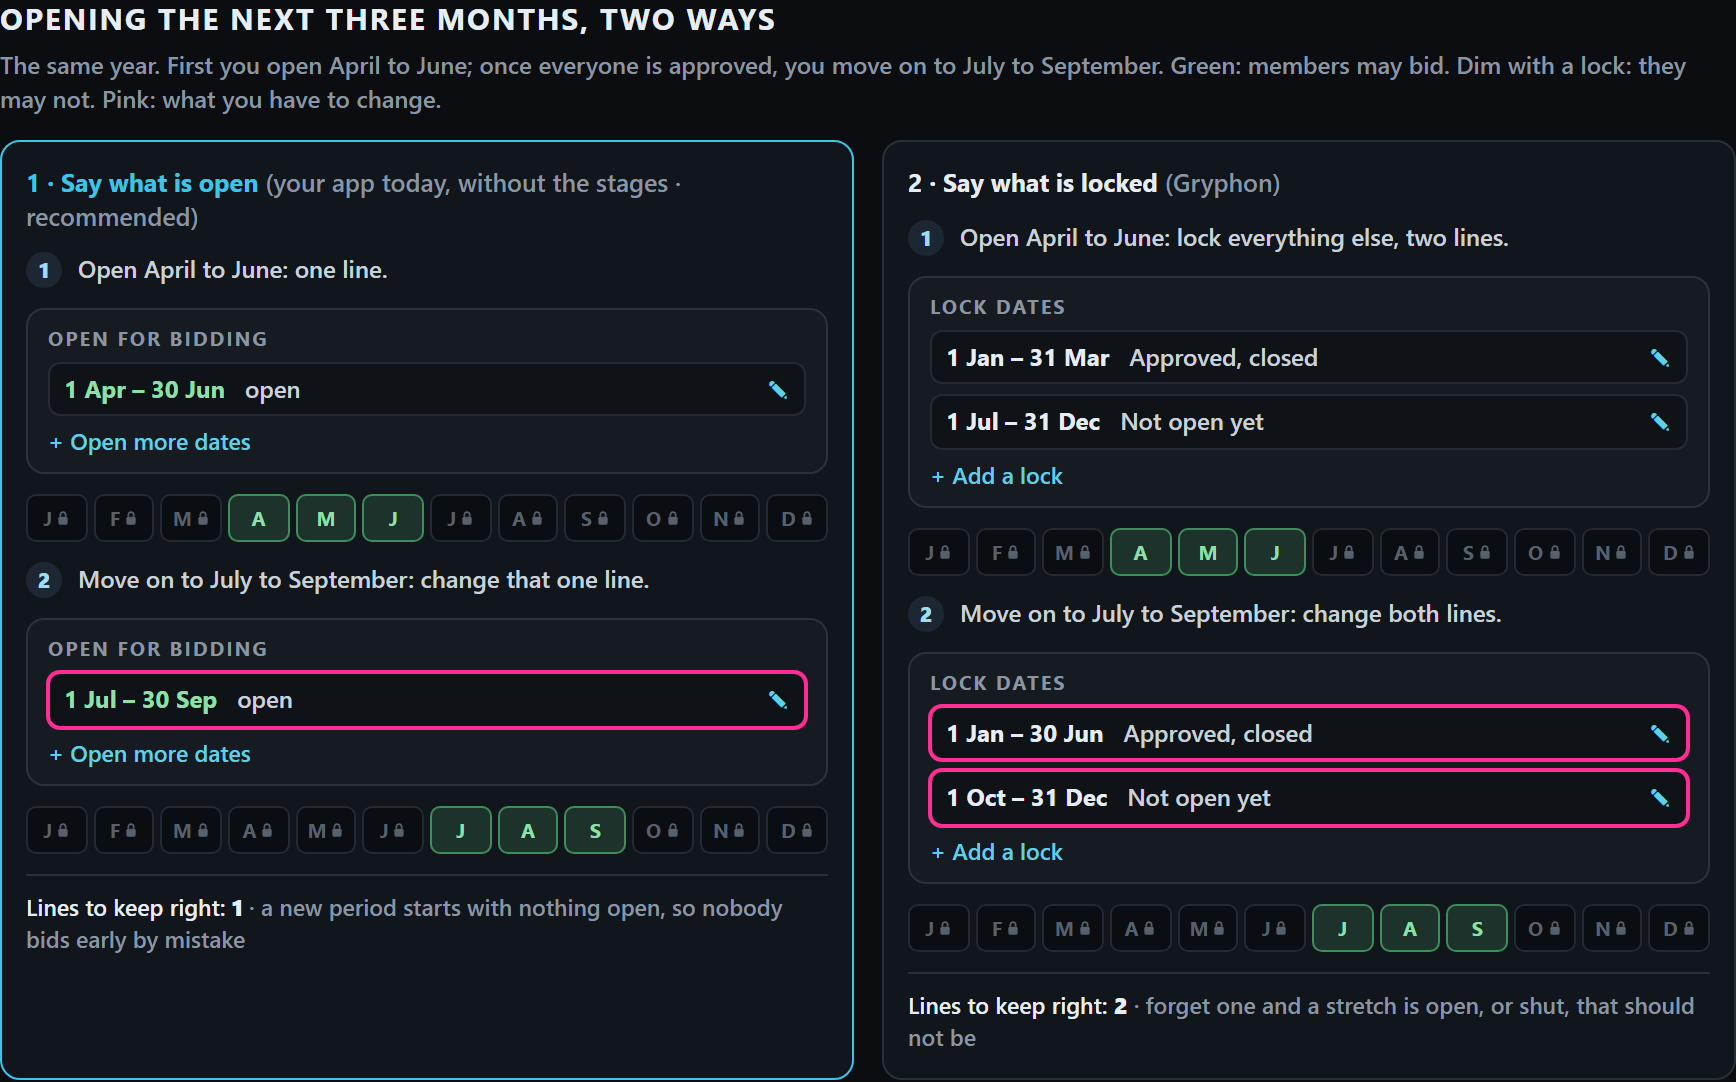
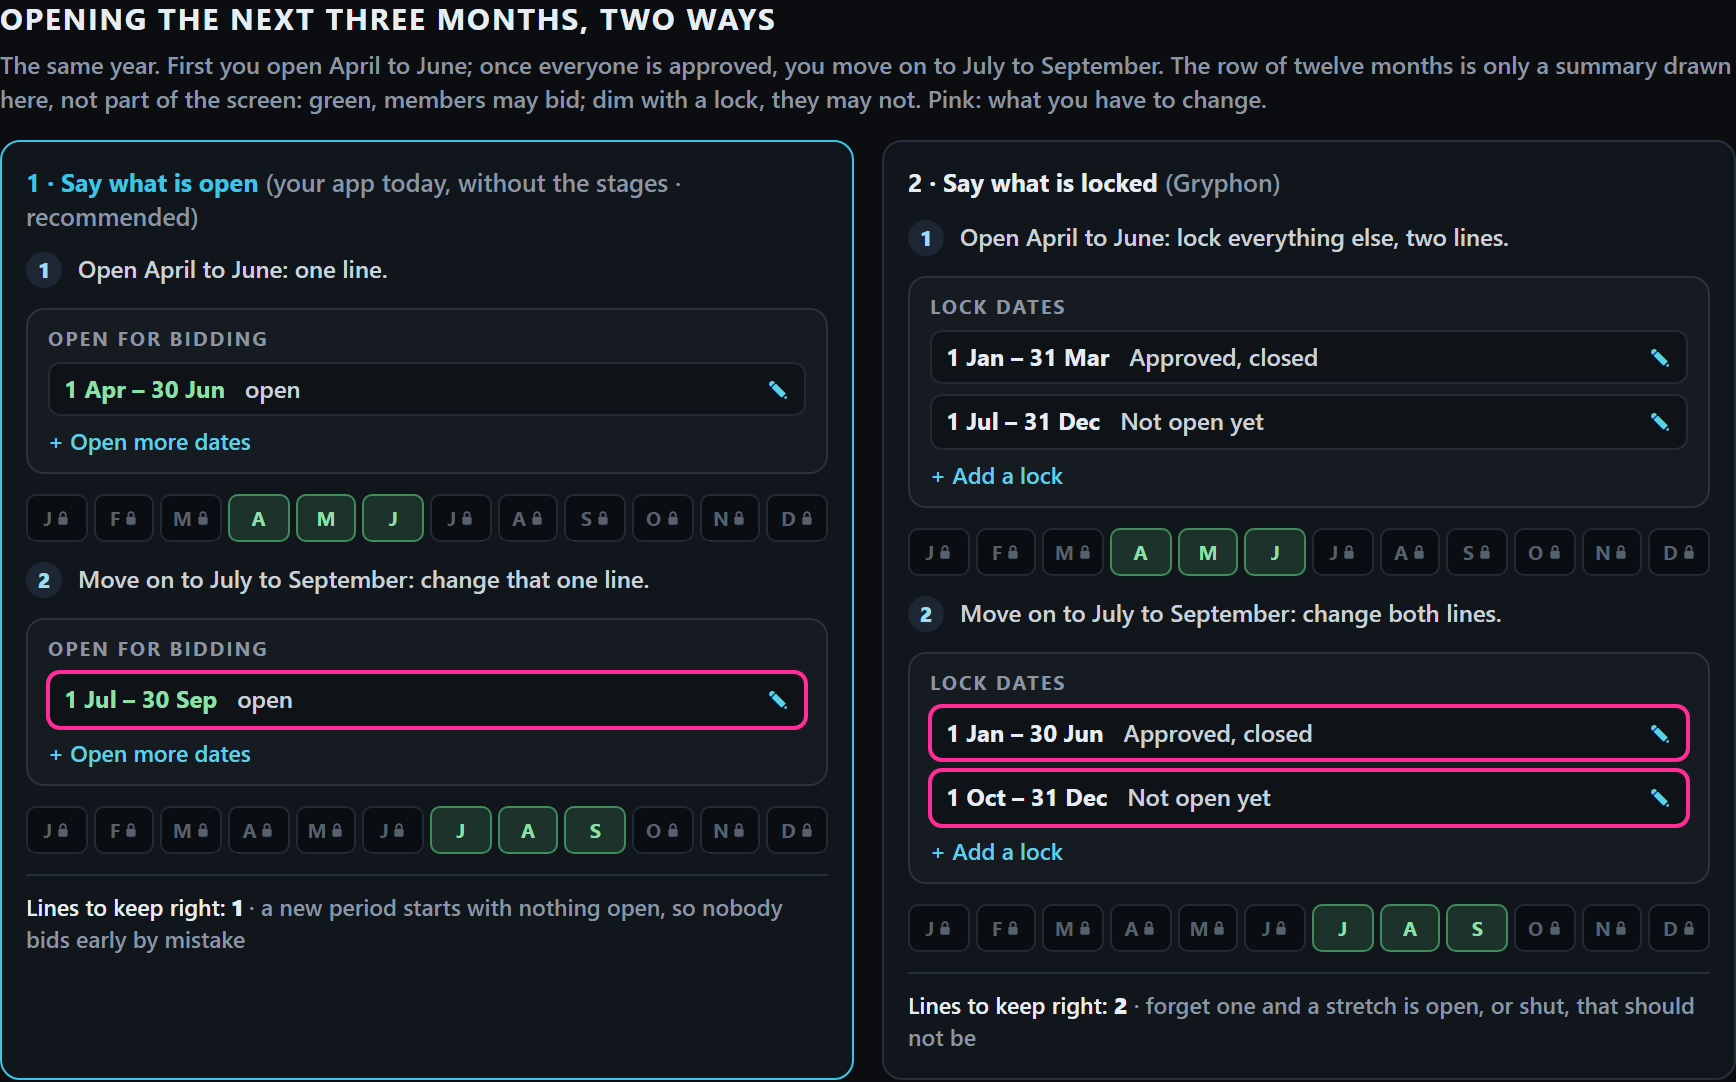
Leave War overhaul, question 5: the comparison picture's row of months labelled as a summary drawn there, not part of the screen (his question); the page's version 14.

Changed region(s): [[0.0, 0.0305, 0.9954, 0.122]]

diff --git a/raptor-port/docs/mock/lw-overhaul/q5-desk.html b/raptor-port/docs/mock/lw-overhaul/q5-desk.html
@@ -31,7 +31,7 @@ h1{font:700 15px/1.3 "Inter Tight",system-ui,sans-serif;letter-spacing:.06em;tex
 .tally{font:600 11.5px/1.4 system-ui;color:#e6edf3;border-top:1px solid #26303a;padding-top:8px}
 .tally span{color:#8a96a3;font-weight:500}
 </style></head><body><div class="wrap">
-<section id="q5"><h1>Opening the next three months, two ways</h1><p class="sub">The same year. First you open April to June; once everyone is approved, you move on to July to September. Green: members may bid. Dim with a lock: they may not. Pink: what you have to change.</p>
+<section id="q5"><h1>Opening the next three months, two ways</h1><p class="sub">The same year. First you open April to June; once everyone is approved, you move on to July to September. The row of twelve months is only a summary drawn here, not part of the screen: green, members may bid; dim with a lock, they may not. Pink: what you have to change.</p>
 <div class="cols">
 <div class="col rec"><div class="ct">1 · Say what is open <i>(your app today, without the stages · recommended)</i></div>
 <div class="step"><span class="n">1</span>Open April to June: one line.</div><div class="sheet"><div class="sh">Open for bidding</div><div class="ln go"><b>1 Apr – 30 Jun</b><span>open</span><i>✎</i></div><div class="ft">+ Open more dates</div></div><div class="strip"><span class="mo shut">J<svg viewBox="0 0 10 12" width="7" height="8" aria-hidden="true"><rect x="1.5" y="5" width="7" height="6" rx="1.2" fill="currentColor"/><path d="M3 5V3.6a2 2 0 0 1 4 0V5" fill="none" stroke="currentColor" stroke-width="1.3"/></svg></span><span class="mo shut">F<svg viewBox="0 0 10 12" width="7" height="8" aria-hidden="true"><rect x="1.5" y="5" width="7" height="6" rx="1.2" fill="currentColor"/><path d="M3 5V3.6a2 2 0 0 1 4 0V5" fill="none" stroke="currentColor" stroke-width="1.3"/></svg></span><span class="mo shut">M<svg viewBox="0 0 10 12" width="7" height="8" aria-hidden="true"><rect x="1.5" y="5" width="7" height="6" rx="1.2" fill="currentColor"/><path d="M3 5V3.6a2 2 0 0 1 4 0V5" fill="none" stroke="currentColor" stroke-width="1.3"/></svg></span><span class="mo open">A</span><span class="mo open">M</span><span class="mo open">J</span><span class="mo shut">J<svg viewBox="0 0 10 12" width="7" height="8" aria-hidden="true"><rect x="1.5" y="5" width="7" height="6" rx="1.2" fill="currentColor"/><path d="M3 5V3.6a2 2 0 0 1 4 0V5" fill="none" stroke="currentColor" stroke-width="1.3"/></svg></span><span class="mo shut">A<svg viewBox="0 0 10 12" width="7" height="8" aria-hidden="true"><rect x="1.5" y="5" width="7" height="6" rx="1.2" fill="currentColor"/><path d="M3 5V3.6a2 2 0 0 1 4 0V5" fill="none" stroke="currentColor" stroke-width="1.3"/></svg></span><span class="mo shut">S<svg viewBox="0 0 10 12" width="7" height="8" aria-hidden="true"><rect x="1.5" y="5" width="7" height="6" rx="1.2" fill="currentColor"/><path d="M3 5V3.6a2 2 0 0 1 4 0V5" fill="none" stroke="currentColor" stroke-width="1.3"/></svg></span><span class="mo shut">O<svg viewBox="0 0 10 12" width="7" height="8" aria-hidden="true"><rect x="1.5" y="5" width="7" height="6" rx="1.2" fill="currentColor"/><path d="M3 5V3.6a2 2 0 0 1 4 0V5" fill="none" stroke="currentColor" stroke-width="1.3"/></svg></span><span class="mo shut">N<svg viewBox="0 0 10 12" width="7" height="8" aria-hidden="true"><rect x="1.5" y="5" width="7" height="6" rx="1.2" fill="currentColor"/><path d="M3 5V3.6a2 2 0 0 1 4 0V5" fill="none" stroke="currentColor" stroke-width="1.3"/></svg></span><span class="mo shut">D<svg viewBox="0 0 10 12" width="7" height="8" aria-hidden="true"><rect x="1.5" y="5" width="7" height="6" rx="1.2" fill="currentColor"/><path d="M3 5V3.6a2 2 0 0 1 4 0V5" fill="none" stroke="currentColor" stroke-width="1.3"/></svg></span></div>

diff --git a/raptor-port/docs/mock/lw-overhaul/q5-phone.html b/raptor-port/docs/mock/lw-overhaul/q5-phone.html
@@ -31,7 +31,7 @@ h1{font:700 15px/1.3 "Inter Tight",system-ui,sans-serif;letter-spacing:.06em;tex
 .tally{font:600 11.5px/1.4 system-ui;color:#e6edf3;border-top:1px solid #26303a;padding-top:8px}
 .tally span{color:#8a96a3;font-weight:500}
 </style></head><body><div class="wrap">
-<section id="q5"><h1>Opening the next three months, two ways</h1><p class="sub">The same year. First you open April to June; once everyone is approved, you move on to July to September. Green: members may bid. Dim with a lock: they may not. Pink: what you have to change.</p>
+<section id="q5"><h1>Opening the next three months, two ways</h1><p class="sub">The same year. First you open April to June; once everyone is approved, you move on to July to September. The row of twelve months is only a summary drawn here, not part of the screen: green, members may bid; dim with a lock, they may not. Pink: what you have to change.</p>
 <div class="cols">
 <div class="col rec"><div class="ct">1 · Say what is open <i>(your app today, without the stages · recommended)</i></div>
 <div class="step"><span class="n">1</span>Open April to June: one line.</div><div class="sheet"><div class="sh">Open for bidding</div><div class="ln go"><b>1 Apr – 30 Jun</b><span>open</span><i>✎</i></div><div class="ft">+ Open more dates</div></div><div class="strip"><span class="mo shut">J<svg viewBox="0 0 10 12" width="7" height="8" aria-hidden="true"><rect x="1.5" y="5" width="7" height="6" rx="1.2" fill="currentColor"/><path d="M3 5V3.6a2 2 0 0 1 4 0V5" fill="none" stroke="currentColor" stroke-width="1.3"/></svg></span><span class="mo shut">F<svg viewBox="0 0 10 12" width="7" height="8" aria-hidden="true"><rect x="1.5" y="5" width="7" height="6" rx="1.2" fill="currentColor"/><path d="M3 5V3.6a2 2 0 0 1 4 0V5" fill="none" stroke="currentColor" stroke-width="1.3"/></svg></span><span class="mo shut">M<svg viewBox="0 0 10 12" width="7" height="8" aria-hidden="true"><rect x="1.5" y="5" width="7" height="6" rx="1.2" fill="currentColor"/><path d="M3 5V3.6a2 2 0 0 1 4 0V5" fill="none" stroke="currentColor" stroke-width="1.3"/></svg></span><span class="mo open">A</span><span class="mo open">M</span><span class="mo open">J</span><span class="mo shut">J<svg viewBox="0 0 10 12" width="7" height="8" aria-hidden="true"><rect x="1.5" y="5" width="7" height="6" rx="1.2" fill="currentColor"/><path d="M3 5V3.6a2 2 0 0 1 4 0V5" fill="none" stroke="currentColor" stroke-width="1.3"/></svg></span><span class="mo shut">A<svg viewBox="0 0 10 12" width="7" height="8" aria-hidden="true"><rect x="1.5" y="5" width="7" height="6" rx="1.2" fill="currentColor"/><path d="M3 5V3.6a2 2 0 0 1 4 0V5" fill="none" stroke="currentColor" stroke-width="1.3"/></svg></span><span class="mo shut">S<svg viewBox="0 0 10 12" width="7" height="8" aria-hidden="true"><rect x="1.5" y="5" width="7" height="6" rx="1.2" fill="currentColor"/><path d="M3 5V3.6a2 2 0 0 1 4 0V5" fill="none" stroke="currentColor" stroke-width="1.3"/></svg></span><span class="mo shut">O<svg viewBox="0 0 10 12" width="7" height="8" aria-hidden="true"><rect x="1.5" y="5" width="7" height="6" rx="1.2" fill="currentColor"/><path d="M3 5V3.6a2 2 0 0 1 4 0V5" fill="none" stroke="currentColor" stroke-width="1.3"/></svg></span><span class="mo shut">N<svg viewBox="0 0 10 12" width="7" height="8" aria-hidden="true"><rect x="1.5" y="5" width="7" height="6" rx="1.2" fill="currentColor"/><path d="M3 5V3.6a2 2 0 0 1 4 0V5" fill="none" stroke="currentColor" stroke-width="1.3"/></svg></span><span class="mo shut">D<svg viewBox="0 0 10 12" width="7" height="8" aria-hidden="true"><rect x="1.5" y="5" width="7" height="6" rx="1.2" fill="currentColor"/><path d="M3 5V3.6a2 2 0 0 1 4 0V5" fill="none" stroke="currentColor" stroke-width="1.3"/></svg></span></div>

diff --git a/raptor-port/docs/mock/lw-overhaul/full-page.html b/raptor-port/docs/mock/lw-overhaul/full-page.html
@@ -136,7 +136,7 @@ a{color:var(--accent)}
     <section class="box q" id="q5">
       <h2><span class="qn">5</span>The stages go, and what takes each one's place <span class="k t">your point 17</span></h2>
       <p class="note"><b>Your question: which is more intuitive, saying what is open (as your app does today) or saying what is locked (as Gryphon does)?</b> My answer: say what is open. You open about three months at a time, so one line, "Open for bidding: 1 Apr – 30 Jun", says it; moving on to July is changing that one line. Saying what is locked takes two lines (before and after the open stretch), and both must change each time. A new period also starts with nothing open, so nobody bids early by mistake. The stages (draft, bidding, closed, published) still go: the open dates are the only switch. The grid keeps today's green outline round the open dates, and a closed day its quiet dim with a small lock.</p>
-      <div class="shots"><figure class="wide"><img src="full/p5-desk.png" alt="Two ways to open the next three months"><figcaption><span class="k n">Two ways</span> · open April to June, then move on to July to September; pink is what you change</figcaption></figure><figure><img src="full/p5-phone.png" alt="Two ways, phone"><figcaption><span class="k n">Phone</span></figcaption></figure><figure><img src="full/p5-phone-mid.png" alt="Mid-month to mid-month"><figcaption><span class="k n">Any dates</span> · 15 April to 14 July</figcaption></figure></div>
+      <div class="shots"><figure class="wide"><img src="full/p5-desk.png" alt="Two ways to open the next three months"><figcaption><span class="k n">Two ways</span> · open April to June, then move on to July to September; pink is what you change; the row of months is a summary drawn here, not on the screen</figcaption></figure><figure><img src="full/p5-phone.png" alt="Two ways, phone"><figcaption><span class="k n">Phone</span></figcaption></figure><figure><img src="full/p5-phone-mid.png" alt="Mid-month to mid-month"><figcaption><span class="k n">Any dates</span> · 15 April to 14 July</figcaption></figure></div>
       <p class="note"><b>The "Open for bidding" window, step by step</b> (drawn over your phone's real screens; pink marks what is new).</p>
       <div class="shots"><figure><img src="full/p5-flow1.png" alt="Step 1"><figcaption><span class="k n">1</span> · tap the open dates</figcaption></figure><figure><img src="full/p5-flow2.png" alt="Step 2"><figcaption><span class="k n">2</span> · the window lists what is open</figcaption></figure><figure><img src="full/p5-flow3.png" alt="Step 3"><figcaption><span class="k n">3</span> · change the dates on the calendar</figcaption></figure><figure><img src="full/p5-flow4.png" alt="Step 4"><figcaption><span class="k n">4</span> · the grid shows it</figcaption></figure><figure><img src="full/p5-flow5.png" alt="Step 5"><figcaption><span class="k n">5</span> · what a member sees</figcaption></figure></div>
       <p class="note"><b>Step by step</b>, on your app as it is today: the open dates and their calendar already exist; only the stage button goes. Today the dates hold one stretch at a time; a second stretch at once would be new.</p>
